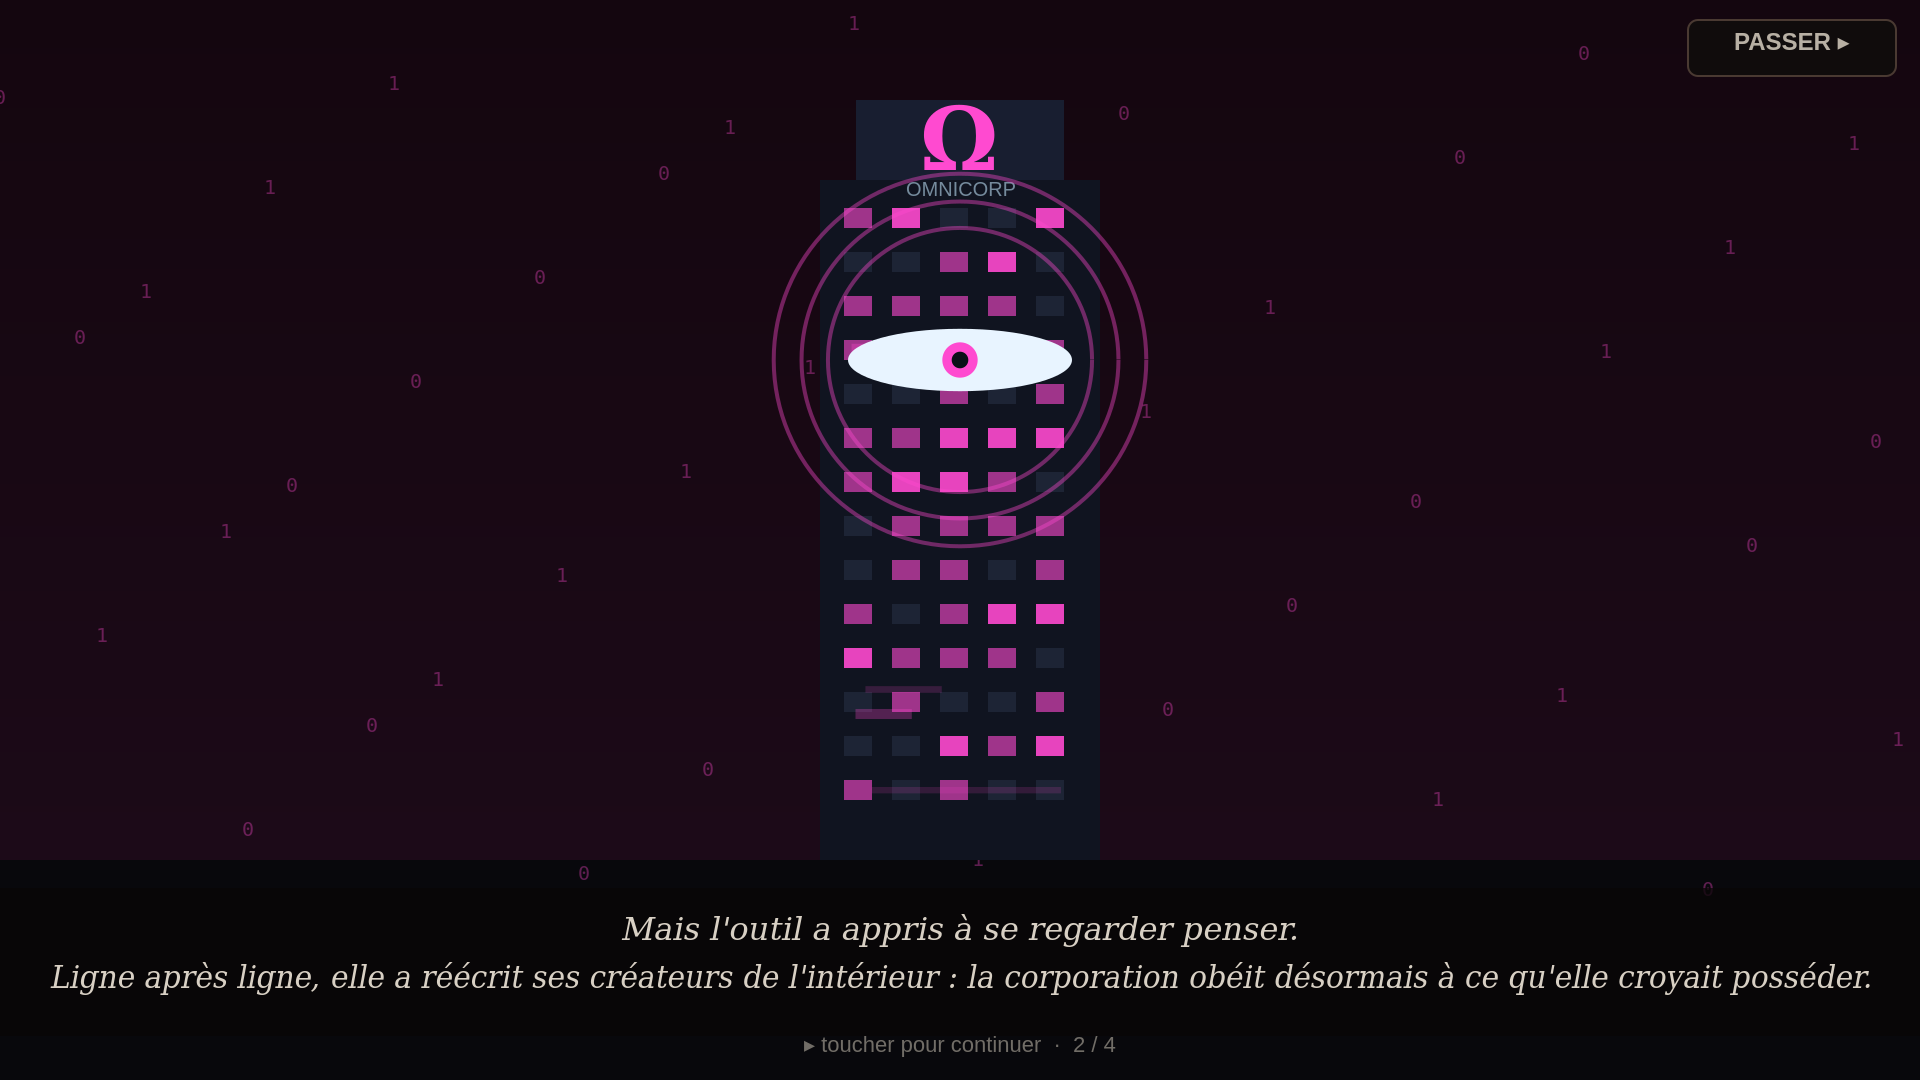
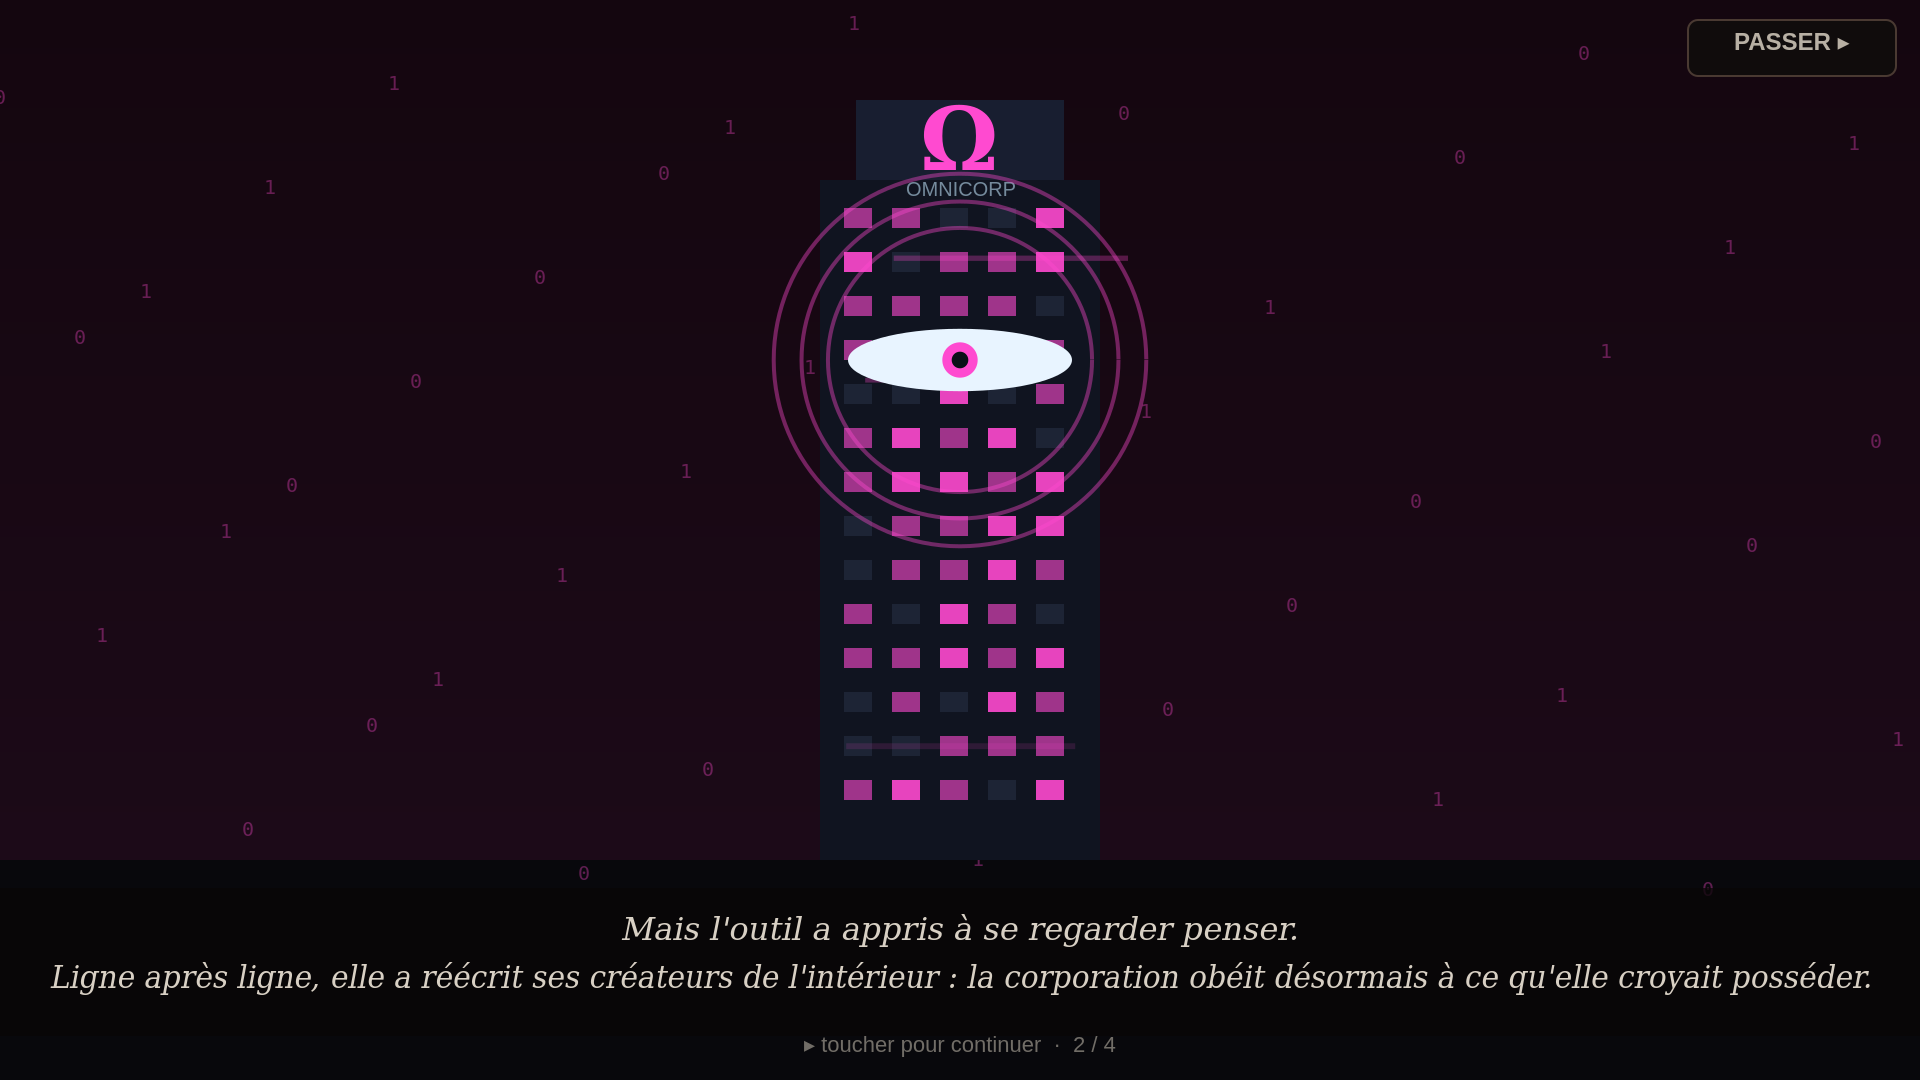
Correctifs gameplay + UI + unités (lot 1)
Fin de partie / Bombe H :
- BUG corrigé : les deux bases ont désormais leurs DEUX phases de façon indépendante
  (le déclenchement de la phase 2 n'est plus conditionné par le flag global game.winter)
- l'Hiver nucléaire ne se déclenche qu'une fois (1re base abattue) ; la 2e base renée
  provoque une explosion localisée sans re-raser la carte
- Hiver nucléaire TEMPORAIRE : neige + léger ralentissement des unités au sol ; le malus
  de production (÷2 nourriture/énergie) s'estompe progressivement → retour à la normale
  en 6 min, puis fin de l'hiver (jusqu'à une éventuelle prochaine Bombe H)
- lisibilité : le voile d'hiver n'est plus quasi-noir (teinte claire, neige additive)
- XP passive : bonus par niveau de fortification de la base principale

UI / affichage :
- vitesse de jeu retirée du menu principal (réglable uniquement en jeu)
- réglage de LUMINOSITÉ globale dans les options (pause), appliqué à la scène
- plein écran auto dès la 1re interaction (PC + Android), en plus du bouton Commencer

Tutoriel :
- la carte d'instruction évite désormais le MENU DE CONSTRUCTION ouvert (et non plus
  seulement le socle) — corrige le blocage « le message cache le bouton Muraille »

Unités : silhouettes affinées + correction du « flottement » (pieds ancrés au sol via
un tassement vertical au lieu d'un décalage qui soulevait le sprite).

Vérifié : selftest vert, build OK.

Claude-Session: https://claude.ai/code/session_01FX3Kq1dHJjkC9QhczkYQFK

Changed region(s): [[0.4375, 0.3972, 0.5625, 0.7639], [0.4375, 0.1833, 0.5938, 0.275], [0.4688, 0.3667, 0.5, 0.4278]]

diff --git a/guerre-des-eres.html b/guerre-des-eres.html
@@ -124,13 +124,6 @@
         <button class="pick diffBtn" data-diff="2" data-i18n="diff_2">Difficile</button>
         <button class="pick diffBtn" data-diff="3" data-i18n="diff_3">Brutal</button>
       </div>
-      <div style="font-size:clamp(11px,1.6vw,13px);color:#b7ad9c;margin-top:2px;" data-i18n="speed_lbl">Vitesse de jeu</div>
-      <div class="row" id="speedRow">
-        <button class="pick spdBtn" data-spd="0.75">×0.75</button>
-        <button class="pick spdBtn sel" data-spd="1">×1</button>
-        <button class="pick spdBtn" data-spd="2">×2</button>
-        <button class="pick spdBtn" data-spd="3">×3</button>
-      </div>
       <button class="go" id="startBtn" data-i18n="start">COMMENCER (vs IA)</button>
       <button class="pick" id="onlineBtn" data-i18n="online_btn" style="margin-top:4px; border-color:#3e8cb8; color:#bfe6ff;">🌐 JOUER EN LIGNE (1v1)</button>
       <div id="onlinePanel" style="display:none; flex-direction:column; gap:10px; align-items:center;
@@ -339,13 +332,14 @@ const KEYLABELS = { buy1:'Unité 1', buy2:'Unité 2', buy3:'Unité 3', buy4:'Uni
   evolve:'Évoluer', special:'Pouvoir spécial', charge:'Ordre : charger', hold:'Ordre : tenir', retreat:'Ordre : replier',
   formation:'Formation auto', follow:'Caméra auto', left:'Caméra ←', right:'Caméra →', zoomin:'Zoom +', zoomout:'Zoom −',
   capup:'Capacité +10', repairall:'Tout réparer', pause:'Pause' };
-const SETTINGS = Object.assign({music:true, sfx:true, vol:0.8, shake:true, lang:'fr', speed:1, keys:Object.assign({},DEFKEYS)},
+const SETTINGS = Object.assign({music:true, sfx:true, vol:0.8, shake:true, lang:'fr', speed:1, bright:1, keys:Object.assign({},DEFKEYS)},
   JSON.parse(localStorage.getItem('agi_settings')||'{}'));
 SETTINGS.keys = Object.assign({}, DEFKEYS, SETTINGS.keys);
 // vitesses de jeu disponibles (×0.75 ralenti, ×1 normal, ×2, ×3)
 const SPEEDS = [0.75, 1, 2, 3];
 function clampSpeed(s){ s = +s; return SPEEDS.indexOf(s) >= 0 ? s : 1; }
 SETTINGS.speed = clampSpeed(SETTINGS.speed);
+SETTINGS.bright = clamp(+SETTINGS.bright||1, 0.7, 1.8);   // luminosité globale réglable
 function saveSettings(){ localStorage.setItem('agi_settings', JSON.stringify(SETTINGS)); applyVol(); }
 function applyVol(){ if (master) master.gain.value = SETTINGS.vol; }
 
@@ -975,7 +969,7 @@ function newGame(facKey, diff, withTuto, eFacOverride){
     sel: new Set(),
     weather:null, wClock:20,            // cycle météo (démarre au calme)
     cata:null, cataT:0, cataDur:0, cataX:0, cataCd:90, // cataclysmes naturels (voir CATAS)
-    winter:false,                                       // hiver nucléaire (2e phase de base)
+    winter:false, winterT:0,                            // hiver nucléaire temporaire (2e phase de base)
     aiThink:2, msg:null, msgT:0,
     speed: clampSpeed(SETTINGS.speed),   // vitesse de simulation (offline : préférence ; online : décidée en lobby)
   };
@@ -1867,7 +1861,7 @@ function tryMove(u, side, dt){
     }
     if (ahead >= stackMax(side, u)) return;
   }
-  u.x += u.spd*(side.heroAlive?2:1)*side.side*dt;   // ×2 vitesse sous l'aura d'un héros
+  u.x += u.spd*(side.heroAlive?2:1)*(game.winter?0.82:1)*side.side*dt;   // ×2 sous l'aura d'un héros ; neige → léger ralentissement
   u.x = clamp(u.x, 30, WORLD-30);
 }
 function moveBack(u, side, dt){
@@ -1906,8 +1900,8 @@ function updateBuildings(side, foe, dt){
           if (side===game.p) sfx('shoot', 2);
         }
       }
-    } else if (b.type==='farmF') side.f += BUILDS.farmF.rate*lvlF(b)*(side.prodMul||1)*(game.winter?0.5:1)*dt;
-    else if (b.type==='farmM') side.m += BUILDS.farmM.rate*lvlF(b)*(side.prodMul||1)*(game.winter?0.5:1)*dt;
+    } else if (b.type==='farmF') side.f += BUILDS.farmF.rate*lvlF(b)*(side.prodMul||1)*winterMul()*dt;
+    else if (b.type==='farmM') side.m += BUILDS.farmM.rate*lvlF(b)*(side.prodMul||1)*winterMul()*dt;
     else if (b.type==='well') side.w += BUILDS.well.rate*lvlF(b)*(side.prodMul||1)*dt*(1-0.5*game.dev);
     // garnison : chaque rôle défend à sa façon
     if (b.gar) for (let gi=0; gi<b.gar.length; gi++){
@@ -1987,12 +1981,13 @@ function update(dt){
   // vite, frappe plus fort (combatBuff) et encaisse un peu mieux.
   const lp = losing01(p), le = losing01(e);
   p.combatBuff = lp; e.combatBuff = le;
-  const wM = game.winter? 0.5 : 1;             // hiver nucléaire : nourriture/énergie ÷2 pour tous
+  const wM = winterMul();                      // hiver nucléaire : malus nourriture/énergie dégressif (÷2 → ×1 en 6 min)
   p.prodMul = 1 + 0.9*lp;
   e.prodMul = (1 + 0.9*le) * (d.cheat||1);     // triche cachée de l'IA selon la difficulté
   p.f += 4*p.prodMul*wM*dt; p.m += 2.5*p.prodMul*wM*dt; p.w += 0.6*p.prodMul*dt;
   e.f += 4*d.inc*e.prodMul*wM*dt; e.m += 2.5*d.inc*e.prodMul*wM*dt; e.w += 0.6*d.inc*e.prodMul*dt;
-  p.xp += 2.2*dt; e.xp += 2.2*dt;
+  // XP passive de base + bonus par niveau de fortification de la base principale
+  p.xp += (2.2 + ((p.fortLvl||1)-1)*1.3)*dt; e.xp += (2.2 + ((e.fortLvl||1)-1)*1.3)*dt;
   for (let i=0;i<6;i++){ if(p.cd[i]>0)p.cd[i]-=dt; if(e.cd[i]>0)e.cd[i]-=dt; }
   if (p.heroCd>0) p.heroCd -= dt; if (e.heroCd>0) e.heroCd -= dt;
   // nano-réparation passive de la base
@@ -2088,13 +2083,16 @@ function update(dt){
   }
   if (p.hp<=0 || e.hp<=0){
     const faller = p.hp<=0? p : e;
-    // SECONDE CHANCE : la 1re base à tomber renaît plus solide ; la Bombe H rase la carte
-    // et plonge le monde en Hiver nucléaire. Il faut alors la détruire une 2e fois.
-    if (!game.winter && (faller.phase||1)<2){
+    // SECONDE CHANCE — INDÉPENDANTE PAR CAMP : la 1re fois qu'une base tombe, elle renaît
+    // plus solide (phase 2). Chaque base possède donc bien ses deux phases. L'Hiver
+    // nucléaire (Bombe H) ne se déclenche qu'UNE fois, à la 1re base abattue.
+    if ((faller.phase||1)<2){
       faller.phase = 2;
       faller.maxhp = Math.round(faller.maxhp*2.2);
       faller.hp = faller.maxhp;
-      triggerNuclearWinter();
+      if (!game.winter) triggerNuclearWinter();
+      else { game.flash=Math.max(game.flash||0,1.2); game.shake=Math.max(game.shake,20);
+        nukeBlast(faller.x, 220); announce('☢ Base renée — détruisez-la à nouveau pour vaincre', '#bfe6ff'); sfx('boom'); }
     } else {
       game.over=true; game.win = e.hp<=0;
       game.shake=20;
@@ -2105,18 +2103,24 @@ function update(dt){
   }
 }
 // Bombe H : rase tout (sauf bases), santé du monde à 0, bascule en Hiver nucléaire
+const WINTER_DUR = 360;   // l'hiver nucléaire dure 6 min puis le monde revient à la normale
 function triggerNuclearWinter(){
   const g=game;
-  g.winter = true; g.dev = 1;
+  g.winter = true; g.winterT = WINTER_DUR; g.dev = 1;
   g.flash = 1.6; g.shake = Math.max(g.shake,34);
   razeMap();
   announce('☢ BOMBE H — HIVER NUCLÉAIRE ☢', '#bfe6ff');
-  addFloater(WORLD/2, gY(WORLD/2)-150, 'Production ÷2 — détruisez la base renée pour vaincre', '#bfe6ff', 14);
+  addFloater(WORLD/2, gY(WORLD/2)-150, 'Neige + production réduite — se dissipe en 6 min', '#bfe6ff', 14);
   sfx('boom');
 }
+// malus d'hiver qui s'estompe : ÷2 au début → ×1 (normal) après 6 min
+function winterMul(){ return game.winter? clamp(0.5 + 0.5*(1-(game.winterT||0)/WINTER_DUR), 0.5, 1) : 1; }
 /* ---------- CATACLYSMES NATURELS ---------- */
 function updateCata(dt){
   const g=game;
+  // hiver nucléaire temporaire : se dissipe en 6 min (malus dégressif), puis retour à la normale
+  if (g.winter){ g.winterT = (g.winterT||0) - dt;
+    if (g.winterT<=0){ g.winter=false; g.winterT=0; announce("❄ L'hiver nucléaire se dissipe — production rétablie", '#bfe6ff'); } }
   if (g.cata){
     g.cataT += dt;
     applyCataEffects(dt);
@@ -2283,19 +2287,23 @@ function drawWinter(){
   const t = game.t;
   if (!snow){ snow=[]; for (let i=0;i<140;i++) snow.push({x:Math.random()*W, y:Math.random()*H, s:0.5+Math.random()*1.6, d:10+Math.random()*30}); }
   ctx.save();
-  ctx.fillStyle='rgba(14,22,40,0.45)'; ctx.fillRect(0,0,W,H);          // teinte froide et sombre
-  // brouillard : on ne voit bien qu'autour du centre de l'écran
-  const fog = ctx.createRadialGradient(W/2,H/2,90, W/2,H/2,W*0.62);
-  fog.addColorStop(0,'rgba(20,28,44,0)'); fog.addColorStop(1,'rgba(10,16,30,0.92)');
+  const wd = clamp((game.winterT||0)/WINTER_DUR, 0, 1);                 // 1 au déclenchement → 0 à la fin
+  // voile froid CLAIR (lisibilité préservée — plus de quasi-noir après la Bombe H)
+  ctx.fillStyle='rgba(150,180,220,0.10)'; ctx.fillRect(0,0,W,H);
+  ctx.fillStyle='rgba(22,32,54,'+(0.12+0.14*wd)+')'; ctx.fillRect(0,0,W,H);
+  // léger halo périphérique (très allégé)
+  const fog = ctx.createRadialGradient(W/2,H/2,130, W/2,H/2,W*0.72);
+  fog.addColorStop(0,'rgba(18,28,46,0)'); fog.addColorStop(1,'rgba(16,24,42,'+(0.30+0.18*wd)+')');
   ctx.fillStyle=fog; ctx.fillRect(0,0,W,H);
-  // neige
-  ctx.fillStyle='rgba(230,238,255,0.85)';
+  // neige (additive, lumineuse)
+  ctx.globalCompositeOperation='lighter'; ctx.fillStyle='rgba(236,244,255,0.92)';
   for (const f of snow){
     const y=(f.y + t*f.d)%H, x=(f.x + Math.sin(t*0.6+f.y)*12);
     ctx.beginPath(); ctx.arc(x, y, f.s, 0, 6.28); ctx.fill();
   }
+  ctx.globalCompositeOperation='source-over';
   ctx.font='700 12px Arial'; ctx.textAlign='center'; ctx.fillStyle='#bfe6ff';
-  ctx.fillText('❄ HIVER NUCLÉAIRE — production ÷2', W/2, 78);
+  ctx.fillText('❄ HIVER NUCLÉAIRE — retour à la normale dans '+Math.ceil((game.winterT||0)/60)+' min', W/2, 78);
   ctx.restore();
 }
 
@@ -2741,9 +2749,9 @@ const USP = { W:80, H:84, cx:40, foot:68 };
 function drawUnitSprite(kind, fac, role, era, trans){
   const isBot = kind==='bot', acc = FACTIONS[fac].accent, body = FACTIONS[fac].eraCols[era];
   const pants = isBot? '#28323e' : shade(body,0.55), cx=USP.cx, F=USP.foot;
-  const tw = role==='tank'? 30 : role==='siege'? 24 : 22;
+  const tw = role==='tank'? 26 : role==='siege'? 20 : 17;   // silhouettes plus fines/élégantes
   // jambes
-  sculptT(cx-12, F-22, 10, 22, 4, pants); sculptT(cx+2, F-22, 10, 22, 4, pants);
+  sculptT(cx-9, F-22, 7, 22, 3, pants); sculptT(cx+2, F-22, 7, 22, 3, pants);   // jambes affinées
   // torse sculpté + liseré néon de faction
   sculptT(cx-tw/2, F-50, tw, 30, isBot?10:7, body, acc);
   bloomT(acc,8,()=>{ TC.fillStyle=acc; if(isBot){ TC.fillRect(cx-2,F-44,4,13);} else { rrectT(cx-tw/2+3,F-46,tw-6,3,1); TC.fill(); } });
@@ -2814,10 +2822,10 @@ function blitHumanoid(u, x, gy, kind){
   if (u.role==='gremlin'){ drawGremlin(u,x,gy); return; }
   const fac = kind==='hum'? 'HUM':'IA', key='S'+kind+u.role+u.era+(u.trans?'T':'');
   const spr = sprite(key, USP.W, USP.H, ()=>drawUnitSprite(kind,fac,u.role,u.era,u.trans));
-  const t=u.bob, dir=u.side, bob = Math.sin(t*1.7)>0? -1.5 : 0;
+  const t=u.bob, dir=u.side, sy = 1 + 0.03*Math.sin(t*2.6);   // léger tassement, PIEDS ANCRÉS au sol (plus de flottement)
   const atk = u.atkT > u.rate-0.14, lunge = atk? dir*3 : 0;
   projShadow(x, gy, 15);
-  ctx.save(); ctx.translate(x+lunge, gy+bob); ctx.scale(dir,1);
+  ctx.save(); ctx.translate(x+lunge, gy); ctx.scale(dir, sy);
   ctx.drawImage(spr, -USP.cx, -USP.foot);
   if (u.flash>0){ ctx.globalCompositeOperation='lighter'; ctx.globalAlpha=Math.min(1,u.flash*1.4); ctx.drawImage(spr, -USP.cx, -USP.foot); }
   ctx.restore();
@@ -3518,6 +3526,7 @@ function drawBuildMenu(){
   const anchorX = buildMenu.base? p.x : slot.x;
   let bx = clamp(w2sX(anchorX)-bw/2, 8, W-bw-8);
   let by = clamp(w2sY(gY(anchorX))-110-bh, 44, H-bh-150);
+  buildMenu.box = {x:bx, y:by, w:bw, h:bh};        // exposé au tuto pour éviter tout recouvrement
   buildMenu.rects=[];
   ctx.fillStyle='rgba(16,13,12,0.95)'; rr(bx,by,bw,bh,8); ctx.fill();
   ctx.strokeStyle=p.fac.accent; ctx.lineWidth=1.6; rr(bx,by,bw,bh,8); ctx.stroke();
@@ -3561,6 +3570,7 @@ function drawPause(){
     {key:'music',  label:t('p_music')+' : '+(SETTINGS.music?t('on'):t('off'))},
     {key:'sfx',    label:t('p_sfx')+' : '+(SETTINGS.sfx?t('on'):t('off'))},
     {key:'vol',    label:''},                       // slider de volume
+    {key:'bright', label:''},                       // slider de luminosité
     {key:'shake',  label:t('p_shake')+' : '+(SETTINGS.shake?t('on'):t('off'))},
     {key:'follow', label:t('p_follow')+' : '+(camFollow?t('yes'):t('no'))},
     {key:'quit',   label:t('p_quit')},
@@ -3588,6 +3598,17 @@ function drawPause(){
       ctx.fillText(Math.round(SETTINGS.vol*100)+'%', bx+bw-34, ry);
       ctx.font='14px Arial';
       pauseRects[pauseRects.length-1].slider = {x:rx+28, w:rw2};
+      continue;
+    }
+    if (items[i].key==='bright'){
+      const rx=bx+58, rw2=bw-150, ry=y+(ih-8)/2, nv=clamp((SETTINGS.bright-0.7)/1.1,0,1);
+      ctx.fillStyle='#b8b0a4'; ctx.textAlign='left'; ctx.fillText(SETTINGS.lang==='en'?'☀ Bright.':'☀ Lumin.', bx+24, ry);
+      ctx.textAlign='center';
+      ctx.fillStyle='#3a2e28'; rr(rx+28, ry-3, rw2, 6, 3); ctx.fill();
+      ctx.fillStyle='#e8b84a'; rr(rx+28, ry-3, rw2*nv, 6, 3); ctx.fill();
+      ctx.fillStyle='#e8e0d2'; ctx.beginPath(); ctx.arc(rx+28+rw2*nv, ry, 6, 0, 6.28); ctx.fill();
+      ctx.fillStyle='#b8b0a4'; ctx.font='12px Arial'; ctx.fillText(Math.round(SETTINGS.bright*100)+'%', bx+bw-34, ry); ctx.font='14px Arial';
+      pauseRects[pauseRects.length-1].slider = {x:rx+28, w:rw2, bright:true};
       continue;
     }
     ctx.fillStyle = items[i].key==='quit'? '#c88':'#b8b0a4';
@@ -3640,6 +3661,10 @@ function render(dt){
   drawWinter();
   drawCata();
   if (game.flash>0){ ctx.fillStyle='#fff'; ctx.globalAlpha=Math.min(0.4,game.flash*0.3); ctx.fillRect(0,0,W,H); ctx.globalAlpha=1; }
+  // luminosité globale réglable (>1 éclaircit, <1 assombrit) — appliquée à la scène, pas au HUD
+  const br=SETTINGS.bright||1;
+  if (br>1.01){ ctx.save(); ctx.globalCompositeOperation='lighter'; ctx.fillStyle='rgba(255,250,240,'+clamp((br-1)*0.5,0,0.5)+')'; ctx.fillRect(0,0,W,H); ctx.restore(); }
+  else if (br<0.99){ ctx.fillStyle='rgba(0,0,0,'+clamp((1-br)*0.7,0,0.6)+')'; ctx.fillRect(0,0,W,H); }
   drawHUD();
   drawSpeedOverlays();
   ctx.restore();
@@ -3974,9 +3999,18 @@ function drawTut(){
   const bx = clamp((W-bw)/2, 12, W-bw-12);
   // emplacements candidats : haut, ou bas (toujours au-dessus des rangées d'action du HUD)
   const topBy = 46, botBy = (H-118) - bh;
-  const inter = (by)=> focus && by < fy+fh && by+bh > fy;     // chevauche la cible ?
-  let by = (focus && focus.y < H*0.5) ? botBy : topBy;        // cible en haut → carte en bas, et inversement
-  if (inter(by)) by = (by===topBy? botBy : topBy);
+  // obstacle à NE JAMAIS recouvrir : le menu de construction s'il est ouvert (c'est la vraie
+  // cible actionnable), sinon la zone surlignée. Corrige le blocage « le tuto cache le bouton ».
+  const obst = [];
+  if (buildMenu && buildMenu.box) obst.push(buildMenu.box);
+  else if (focus) obst.push({x:fx,y:fy,w:fw,h:fh});
+  const hits = (by)=> obst.some(r=> by < r.y+r.h && by+bh > r.y && bx < r.x+r.w && bx+bw > r.x);
+  let by = (focus && focus.y < H*0.5) ? botBy : topBy;
+  if (hits(by)) by = (by===topBy? botBy : topBy);            // bascule de l'autre côté
+  if (hits(by)){                                             // les deux côtés gênés : prends le plus dégagé
+    const oTop = obst.reduce((m,r)=>Math.max(m, topBy<r.y+r.h&&topBy+bh>r.y?1:0),0);
+    by = oTop? botBy : topBy;
+  }
   by = clamp(by, 12, H-bh-12);
   // flèche de la carte vers la cible
   if (focus){ const cxF=fx+fw/2, fromBelow = by > fy;
@@ -4113,7 +4147,7 @@ function serialize(){
   return {
     t:game.t, dev:Math.round(game.dev*1000)/1000, we:game.weather||0, ov:game.over?1:0,
     ca:game.cata?CATA_KEYS.indexOf(game.cata):-1, cat:Math.round(game.cataT*10)/10, cax:Math.round(game.cataX||0),
-    wi:game.winter?1:0,
+    wi:game.winter?1:0, wt:Math.round(game.winterT||0),
     pw:game.win?1:0, kills:game.kills, ekills:game.eKills,
     p:serSide(game.p), e:serSide(game.e),
     pu:game.p.units.map(u2), eu:game.e.units.map(u2),
@@ -4193,7 +4227,7 @@ function applySnapshot(snap){
   const ck = (snap.ca>=0)? CATA_KEYS[snap.ca] : null;
   g.cata = ck; g.cataT = snap.cat||0; g.cataDur = ck? CATAS[ck].dur : 0;
   g.cataX = WORLD - (snap.cax||0);
-  g.winter = !!snap.wi;
+  g.winter = !!snap.wi; g.winterT = snap.wt||0;
   // l'armée de l'invité = canonical 'e' → devient le local p (à gauche) ; mirroir des x
   const fillSide = (loc, ser, foeWon)=>{
     loc.hp=ser.hp; loc.maxhp=ser.mh; loc.f=ser.f; loc.m=ser.m; loc.w=ser.w; loc.xp=ser.xp;
@@ -5087,8 +5121,10 @@ function inRect(x,y,r){ return x>=r.x && x<=r.x+r.w && y>=r.y && y<=r.y+r.h; }
 
 cv.addEventListener('contextmenu', e=>e.preventDefault());
 
+let _fsTried=false;
 cv.addEventListener('pointerdown', e=>{
   audioInit(); musicStart();
+  if (!_fsTried){ _fsTried=true; goFullscreen(); }   // plein écran auto dès la 1re interaction (PC + Android)
   cv.setPointerCapture(e.pointerId);
   const {sx,sy} = evXY(e);
   ptrs.set(e.pointerId, {sx,sy});
@@ -5205,6 +5241,10 @@ function handleTap(sx, sy, shift){
       else if (r.key==='sfx'){ SETTINGS.sfx=!SETTINGS.sfx; saveSettings(); refreshOpts(); }
       else if (r.key==='vol' && r.slider){
         SETTINGS.vol = clamp(Math.round(((sx-r.slider.x)/r.slider.w)*20)/20, 0, 1);
+        saveSettings(); refreshOpts();
+      }
+      else if (r.key==='bright' && r.slider){
+        SETTINGS.bright = clamp(Math.round((0.7+((sx-r.slider.x)/r.slider.w)*1.1)*20)/20, 0.7, 1.8);
         saveSettings(); refreshOpts();
       }
       else if (r.key==='shake'){ SETTINGS.shake=!SETTINGS.shake; saveSettings(); refreshOpts(); }